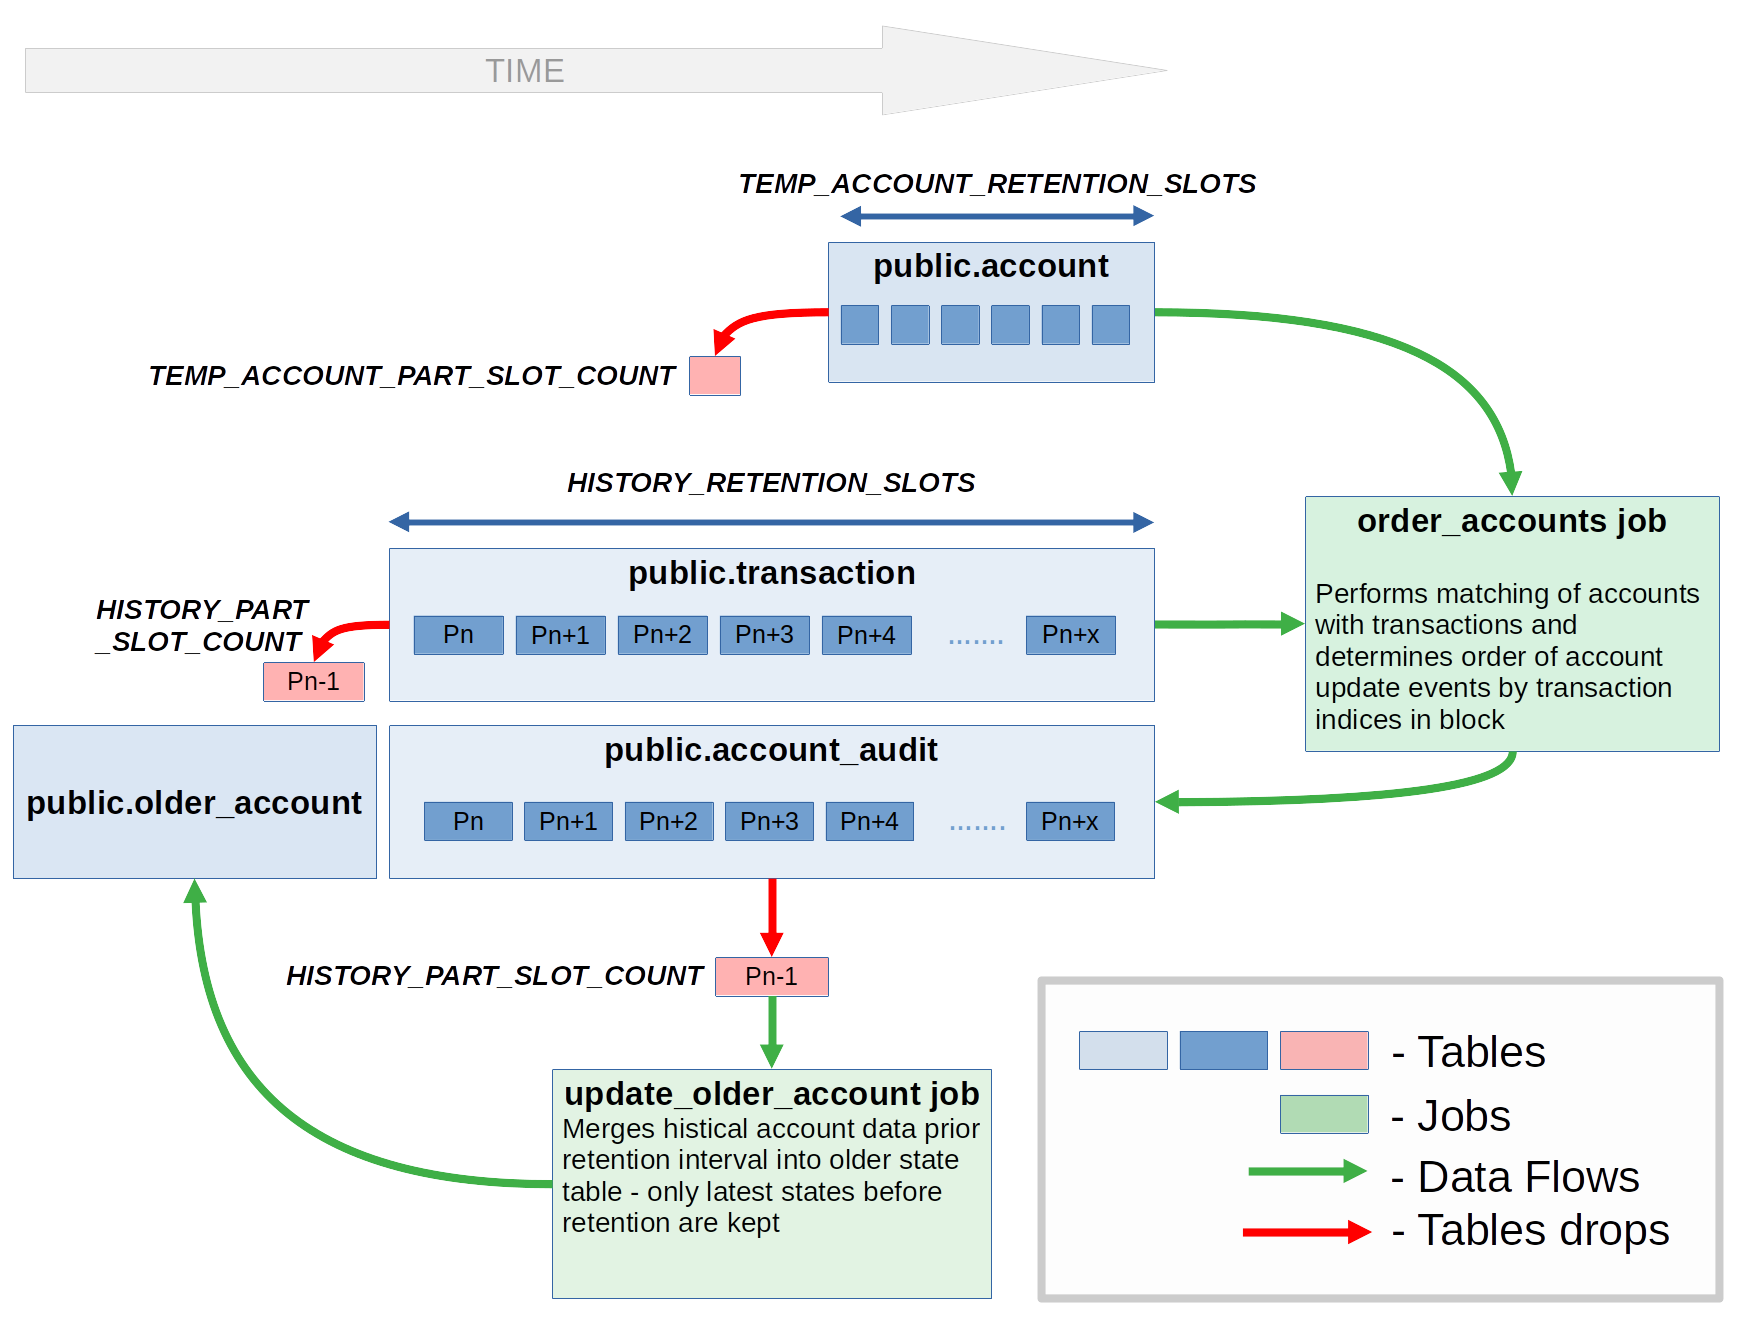
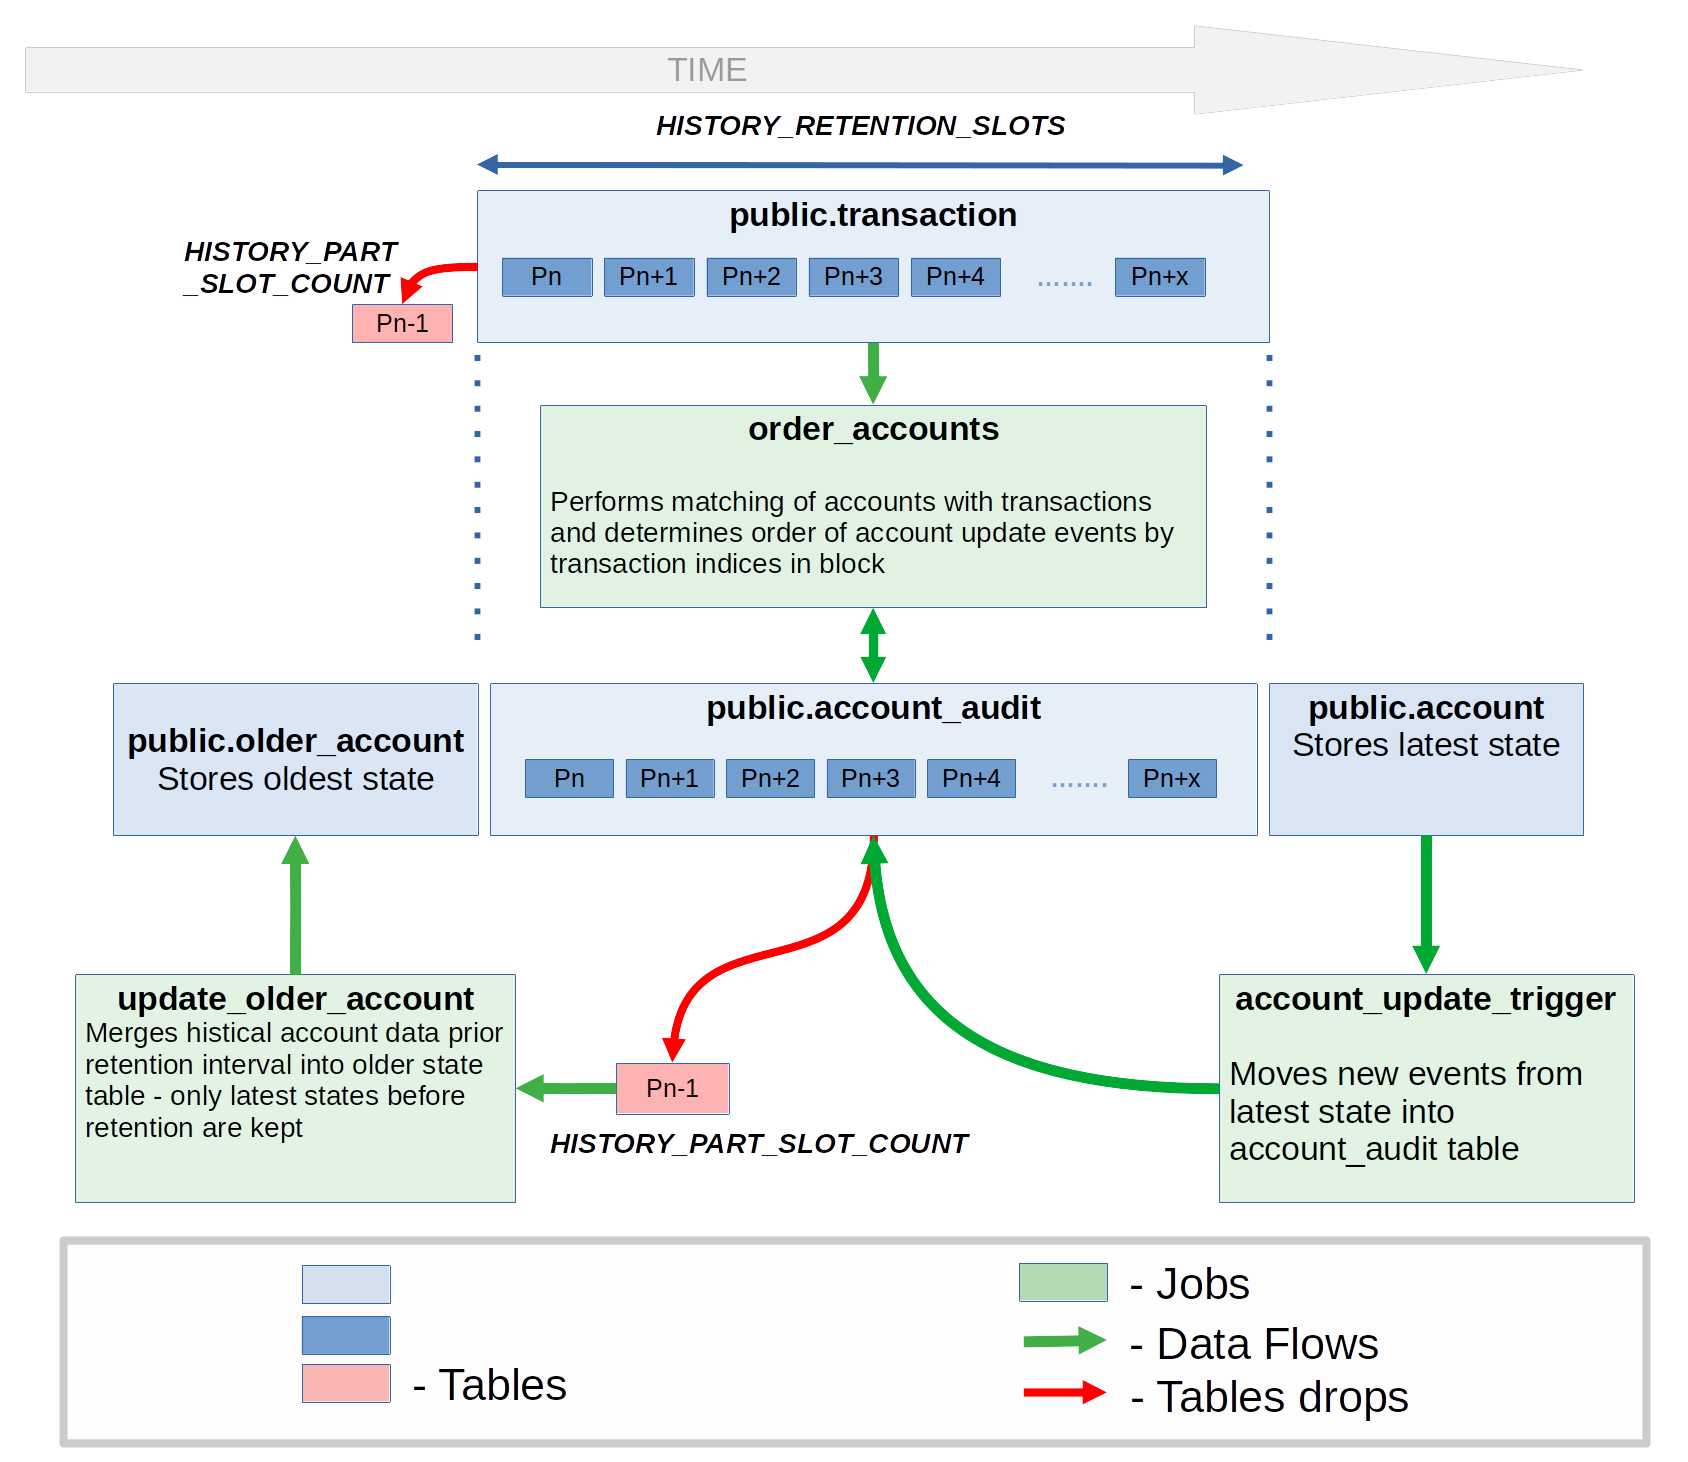
Edit documentation

diff --git a/README.md b/README.md
@@ -8,7 +8,7 @@
 - CI dockerfile - Dockerfile
 
 ## History flow
-Picture below represents data flow between different parts of Tracer DB. The most of tables in DB are partitioned and have retention period for its data in the sake of disk space economy. *account* table is temporary table for storing account update events. *order_accounts* job shots once a second and performs matching of account update events with transactions by transaction signature to order accounts according to order of transactions in block. This is done for compatibility with several validators producing update events into single database. *write_version* field of original account update event is based on atomic counter inside validator and are not suitable to syncronize data from different validators. Transaction indices instead are the same for all validators and can be used to restore order of account update events.
+Picture below represents data flow between different parts of Tracer DB. The most of tables in DB are partitioned and have retention period for its data in the sake of disk space economy. *order_accounts* job shots once a second and performs matching of account update events with transactions by transaction signature to order accounts according to order of transactions in block. This is done for compatibility with several validators producing update events into single database. *write_version* field of original account update event is based on atomic counter inside validator and are not suitable to syncronize data from different validators. Transaction indices instead are the same for all validators and can be used to restore order of account update events.
 
 ![Tracer DB History Flow](./tracerdb_history_flow.png)
 
@@ -24,14 +24,12 @@ Picture below represents data flow between different parts of Tracer DB. The mos
    - HISTORY_PART_SLOT_COUNT - number of solana slots which will be stored in a single partition of history. **Recommended value - 216000 (about one day of history)**
    - HISTORY_START_SLOT - number of first slot **Recommended value - number of current slot on a moment of starting validator with clean DB**
    - HISTORY_RETENTION_SLOTS - number of slots to store in history. Account's data from older slots will be merged into older_account table and corresponding partitions will be deleted every maintenance period, partitions with outdated transaction will be dropped. **Recommended value - 6480000 (about one month of history)**
-   - TEMP_ACCOUNT_PART_SLOT_COUNT - number of solana slots which will be stored in a single partition of account table. Account table is temporary storage for update account events before they being ordered using indexes of corresponding transactions. **Recommended value - 4500 (30 minutes of history)**
-   - TEMP_ACCOUNT_RETENTION_SLOTS - number of slots to store in account table. Partitions with event for outdated slots will be removed by schedule. Retention period should be long enough for DB to move all data from temporary account table into account_audit table **Recommended value - 54000 (6 hours of history)**
    - MAINTENANCE_SCHEDULE - schedule of maintenance procedure. Determines how often will table creation|retention performed. This variable should store string in cron-compatible format (e. g. */5 * * * * - to run maintenance every 5 minutes). Make sure maintenance interval will be lower than time required to produce single account_audit partition (considering single slot takes ~0.4 seconds). **Recommended value - */30 * * * * (run maintenance every half an hour)**
 
    Example of the command:
    
    ```bash
-    POSTGRES_HOST=<your-server-address> POSTGRES_DB=solana POSTGRES_USER=solana-user PGPASSWORD=solana-pass HISTORY_PART_SLOT_COUNT=216000 HISTORY_START_SLOT=0 HISTORY_RETENTION_SLOTS=6480000 TEMP_ACCOUNT_PART_SLOT_COUNT=4500 TEMP_ACCOUNT_RETENTION_SLOTS=54000 MAINTENANCE_SCHEDULE="*/30 * * * *" ./deploy_schema.sh
+    POSTGRES_HOST=<your-server-address> POSTGRES_DB=solana POSTGRES_USER=solana-user PGPASSWORD=solana-pass HISTORY_PART_SLOT_COUNT=216000 HISTORY_START_SLOT=0 HISTORY_RETENTION_SLOTS=6480000 MAINTENANCE_SCHEDULE="*/30 * * * *" ./deploy_schema.sh
    ```
 
    Example of docker-compose service:
@@ -48,8 +46,6 @@ Picture below represents data flow between different parts of Tracer DB. The mos
       HISTORY_PART_SLOT_COUNT: 216000
       HISTORY_START_SLOT: 0
       HISTORY_RETENTION_SLOTS: 6480000
-      TEMP_ACCOUNT_PART_SLOT_COUNT: 4500
-      TEMP_ACCOUNT_RETENTION_SLOTS: 54000
       MAINTENANCE_SCHEDULE: '*/30 * * * *'
    ``` 
 
